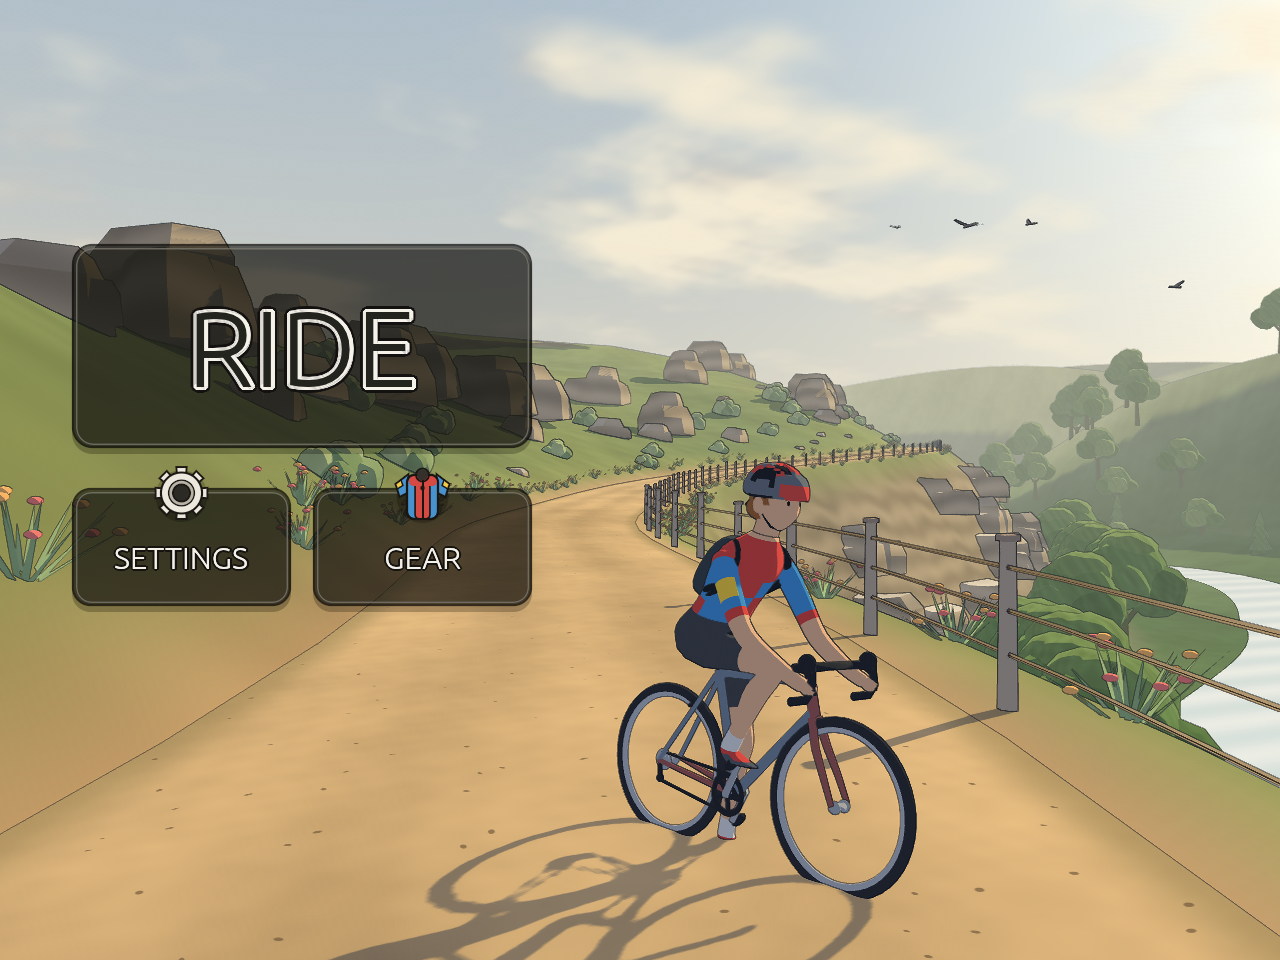
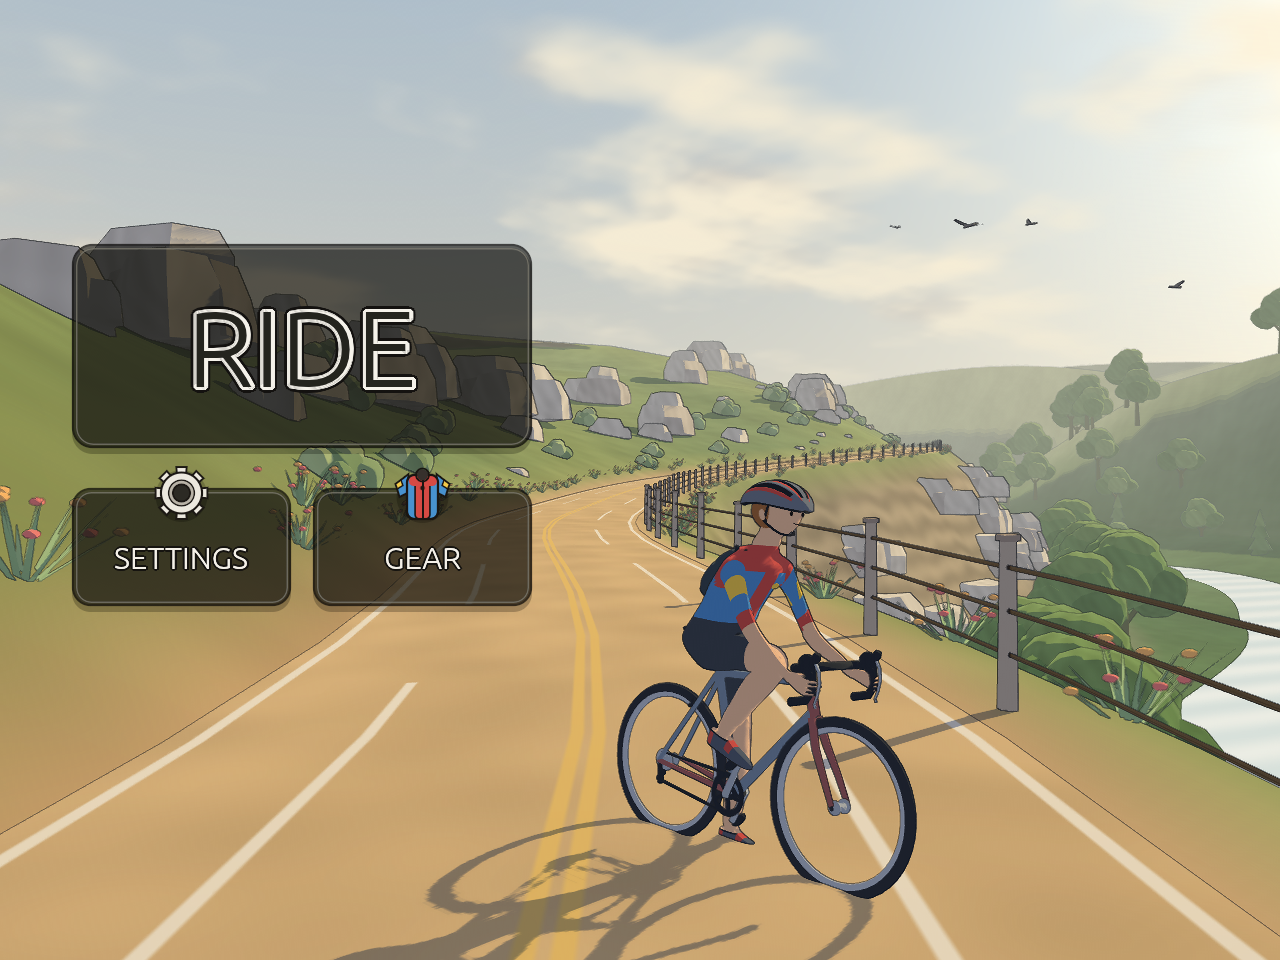
Rename app from Cadence to Cadencia
Rename the package, library (cadencia_lib) and binary (cadencia) targets, the
Android package (com.cadencia.cycling), NativeActivity lib name and labels, the
WASM canvas id and page title, the CADENCIA_LANG env var, GPU object labels,
egui area ids, window titles and UI branding strings, plus the APK artifact
name. Cycling-domain uses of the word cadence (RPM telemetry, physics
estimator, BLE parsers) are intentionally left unchanged.

Refresh the main menu, mountain and settings screenshots, which carry no
visible brand text, to confirm the renamed binary renders identically.

diff --git a/index.html b/index.html
@@ -3,7 +3,7 @@
 <head>
   <meta charset="utf-8" />
   <meta name="viewport" content="width=device-width, initial-scale=1.0, user-scalable=no" />
-  <title>Cadence — Stylized Indoor Cycling</title>
+  <title>Cadencia</title>
   <link data-trunk rel="rust" data-wasm-opt="z" />
   <style>
     html, body {
@@ -23,6 +23,6 @@
   </style>
 </head>
 <body>
-  <canvas id="cadence-canvas"></canvas>
+  <canvas id="cadencia-canvas"></canvas>
 </body>
 </html>

diff --git a/src/lib.rs b/src/lib.rs
@@ -27,7 +27,7 @@ use crate::world::riders::{
 use crate::world::terrain::{build_biome_world, StaticWorldGeometry};
 use crate::world::{BiomeId, RouteSpline};
 
-pub struct CadenceSim {
+pub struct CadenciaSim {
     pub screen: AppScreen,
     pub biome: BiomeId,
     pub spline: RouteSpline,
@@ -47,7 +47,7 @@ pub struct CadenceSim {
     pub time_s: f32,
 }
 
-impl CadenceSim {
+impl CadenciaSim {
     pub fn new(biome: BiomeId, camera_mode: CameraMode) -> Self {
         Self::new_with_screen(biome, AppScreen::InGame, camera_mode)
     }
@@ -244,7 +244,7 @@ struct WindowGpuState {
     renderer: LigneClaireRenderer,
     egui_ctx: egui::Context,
     egui_winit: egui_winit::State,
-    sim: CadenceSim,
+    sim: CadenciaSim,
     last_frame: Instant,
     save_screenshot_flag: bool,
 }
@@ -276,7 +276,7 @@ impl WindowGpuState {
             .expect("GPU adapter");
         let (device, queue) = adapter
             .request_device(&wgpu::DeviceDescriptor {
-                label: Some("cadence_device"),
+                label: Some("cadencia_device"),
                 required_limits: wgpu::Limits::default().using_resolution(adapter.limits()),
                 ..Default::default()
             })
@@ -294,7 +294,7 @@ impl WindowGpuState {
             Some(b) => (b, AppScreen::InGame, CameraMode::Chase),
             None => (BiomeId::random(), AppScreen::MainMenu, CameraMode::MainMenu),
         };
-        let sim = CadenceSim::new_with_screen(biome, screen, cam);
+        let sim = CadenciaSim::new_with_screen(biome, screen, cam);
         renderer.upload_world(&device, &sim.world_geo);
 
         let egui_ctx = egui::Context::default();
@@ -475,20 +475,20 @@ impl WindowGpuState {
     }
 }
 
-struct CadenceApp {
+struct CadenciaApp {
     #[allow(dead_code)]
     initial_level: Option<BiomeId>,
     state: Option<WindowGpuState>,
 }
 
-impl ApplicationHandler for CadenceApp {
+impl ApplicationHandler for CadenciaApp {
     fn resumed(&mut self, event_loop: &ActiveEventLoop) {
         if self.state.is_some() {
             return;
         }
         #[allow(unused_mut)]
         let mut attrs = Window::default_attributes()
-            .with_title("Cadence — Ligne Claire Indoor Cycling")
+            .with_title("Cadencia")
             .with_inner_size(winit::dpi::LogicalSize::new(1280.0, 960.0));
 
         #[cfg(target_arch = "wasm32")]
@@ -497,7 +497,7 @@ impl ApplicationHandler for CadenceApp {
             use winit::platform::web::WindowAttributesExtWebSys;
             let canvas = web_sys::window()
                 .and_then(|w| w.document())
-                .and_then(|d| d.get_element_by_id("cadence-canvas"))
+                .and_then(|d| d.get_element_by_id("cadencia-canvas"))
                 .and_then(|e| e.dyn_into::<web_sys::HtmlCanvasElement>().ok());
             if let Some(c) = canvas {
                 attrs = attrs.with_canvas(Some(c));
@@ -615,7 +615,7 @@ impl ApplicationHandler for CadenceApp {
 pub fn run_windowed(initial_level: Option<BiomeId>) {
     let event_loop = EventLoop::new().expect("event loop");
     event_loop.set_control_flow(ControlFlow::Poll);
-    let mut app = CadenceApp {
+    let mut app = CadenciaApp {
         initial_level,
         state: None,
     };
@@ -632,10 +632,10 @@ pub fn run_web() {
     let event_loop = EventLoop::new().expect("wasm event loop");
     #[allow(deprecated)]
     let window = {
-        let mut attrs = Window::default_attributes().with_title("Cadence");
+        let mut attrs = Window::default_attributes().with_title("Cadencia");
         if let Some(c) = web_sys::window()
             .and_then(|w| w.document())
-            .and_then(|d| d.get_element_by_id("cadence-canvas"))
+            .and_then(|d| d.get_element_by_id("cadencia-canvas"))
             .and_then(|e| e.dyn_into::<web_sys::HtmlCanvasElement>().ok())
         {
             attrs = attrs.with_canvas(Some(c));
@@ -697,7 +697,7 @@ pub fn android_main(app: android_activity::AndroidApp) {
         .build()
         .expect("android event loop");
     event_loop.set_control_flow(ControlFlow::Poll);
-    let mut app = CadenceApp {
+    let mut app = CadenciaApp {
         initial_level: None,
         state: None,
     };
@@ -734,7 +734,7 @@ pub fn render_headless_screenshot_screen(
     .map_err(|e| format!("adapter error: {e:?}"))?;
 
     let (device, queue) = pollster::block_on(adapter.request_device(&wgpu::DeviceDescriptor {
-        label: Some("cadence_headless_dev"),
+        label: Some("cadencia_headless_dev"),
         ..Default::default()
     }))
     .map_err(|e| format!("device error: {e:?}"))?;
@@ -742,7 +742,7 @@ pub fn render_headless_screenshot_screen(
     let format = wgpu::TextureFormat::Rgba8UnormSrgb;
     let assets = AssetBank::load_embedded();
     let mut renderer = LigneClaireRenderer::new(&device, format, width, height, &assets);
-    let mut sim = CadenceSim::new_with_screen(biome, screen, camera_mode);
+    let mut sim = CadenciaSim::new_with_screen(biome, screen, camera_mode);
     renderer.upload_world(&device, &sim.world_geo);
 
     let out_tex = device.create_texture(&wgpu::TextureDescriptor {

diff --git a/src/ui/mod.rs b/src/ui/mod.rs
@@ -50,7 +50,7 @@ impl Language {
     pub fn detect_os() -> Self {
         #[cfg(not(target_arch = "wasm32"))]
         {
-            for var in ["CADENCE_LANG", "LC_ALL", "LC_MESSAGES", "LANGUAGE", "LANG"] {
+            for var in ["CADENCIA_LANG", "LC_ALL", "LC_MESSAGES", "LANGUAGE", "LANG"] {
                 if let Ok(val) = std::env::var(var) {
                     if let Some(lang) = Self::from_locale_tag(&val) {
                         return lang;
@@ -1065,8 +1065,8 @@ pub fn draw_hud(
         let lang = hud_state.language;
         egui::Window::new(tr(
             lang,
-            "Cadence Control & Trainer Hub",
-            "Centro de Control y Rodillo Cadence",
+            "Cadencia Control & Trainer Hub",
+            "Centro de Control y Rodillo Cadencia",
         ))
             .anchor(Align2::CENTER_CENTER, Vec2::ZERO)
             .collapsible(false)
@@ -1173,7 +1173,7 @@ pub fn draw_hud(
                 );
                 ui.add(
                     egui::Slider::new(&mut sim.target_cadence_rpm, 0.0..=130.0)
-                        .text(tr(lang, "Cadence (RPM)", "Cadencia (RPM)")),
+                        .text(tr(lang, "Cadencia (RPM)", "Cadencia (RPM)")),
                 );
                 ui.add(
                     egui::Slider::new(&mut sim.target_hr_bpm, 75.0..=195.0)
@@ -1485,7 +1485,7 @@ fn draw_main_menu(ctx: &egui::Context, lang: Language) -> HudActions {
     let scale_y = (h / 960.0).clamp(0.65, 1.6);
     let scale = scale_x.min(scale_y);
 
-    egui::Area::new(egui::Id::unique("cadence_main_menu_cluster"))
+    egui::Area::new(egui::Id::unique("cadencia_main_menu_cluster"))
         .fade_in(false)
         .fixed_pos(Pos2::ZERO)
         .show(ctx, |ui| {
@@ -1710,7 +1710,7 @@ fn draw_world_select(ctx: &egui::Context, lang: Language) -> HudActions {
     let scale_y = (h / 960.0).clamp(0.65, 1.6);
     let scale = scale_x.min(scale_y);
 
-    egui::Area::new(egui::Id::unique("cadence_world_select"))
+    egui::Area::new(egui::Id::unique("cadencia_world_select"))
         .fade_in(false)
         .fixed_pos(Pos2::ZERO)
         .show(ctx, |ui| {
@@ -1909,7 +1909,7 @@ fn draw_settings_screen(
     let scale = scale_x.min(scale_y);
     let lang = hud_state.language;
 
-    egui::Area::new(egui::Id::unique("cadence_settings_backdrop"))
+    egui::Area::new(egui::Id::unique("cadencia_settings_backdrop"))
         .fade_in(false)
         .fixed_pos(Pos2::ZERO)
         .show(ctx, |ui| {
@@ -2085,7 +2085,7 @@ fn draw_settings_screen(
                 );
                 cols[1].add(
                     egui::Slider::new(&mut sim.target_cadence_rpm, 0.0..=130.0)
-                        .text(tr(lang, "Sim Cadence (RPM)", "Cadencia Sim (RPM)")),
+                        .text(tr(lang, "Sim Cadencia (RPM)", "Cadencia Sim (RPM)")),
                 );
                 cols[1].add(
                     egui::Slider::new(&mut sim.target_hr_bpm, 75.0..=195.0)
@@ -2148,7 +2148,7 @@ fn draw_avatar_editor_screen(ctx: &egui::Context, lang: Language) -> HudActions 
 
     // Left blank as requested ("Gear opens the avatar editor screen. For now leave the avatar editor screen blank.")
     // with only a discrete Back button in the top-left corner so the player can return to the Main Menu.
-    egui::Area::new(egui::Id::unique("cadence_avatar_editor_blank"))
+    egui::Area::new(egui::Id::unique("cadencia_avatar_editor_blank"))
         .fade_in(false)
         .fixed_pos(Pos2::ZERO)
         .show(ctx, |ui| {

diff --git a/src/main.rs b/src/main.rs
@@ -1,9 +1,9 @@
 #[cfg(not(target_arch = "wasm32"))]
-use cadence_lib::renderer::CameraMode;
+use cadencia_lib::renderer::CameraMode;
 #[cfg(not(target_arch = "wasm32"))]
-use cadence_lib::ui::AppScreen;
+use cadencia_lib::ui::AppScreen;
 #[cfg(not(target_arch = "wasm32"))]
-use cadence_lib::world::BiomeId;
+use cadencia_lib::world::BiomeId;
 
 fn main() {
     #[cfg(not(target_arch = "wasm32"))]
@@ -91,14 +91,14 @@ fn main() {
             });
             let biome = explicit_biome.unwrap_or_else(BiomeId::random);
             if let Err(err) =
-                cadence_lib::render_headless_screenshot_screen(&out, biome, screen, width, height, camera)
+                cadencia_lib::render_headless_screenshot_screen(&out, biome, screen, width, height, camera)
             {
                 eprintln!("Screenshot failed: {err}");
                 std::process::exit(1);
             }
             println!("Saved screenshot to {out}");
         } else {
-            cadence_lib::run_windowed(direct_level);
+            cadencia_lib::run_windowed(direct_level);
         }
     }
 }

diff --git a/src/renderer/mod.rs b/src/renderer/mod.rs
@@ -2483,7 +2483,7 @@ impl LigneClaireRenderer {
         }
 
         let mut encoder = device.create_command_encoder(&wgpu::CommandEncoderDescriptor {
-            label: Some("cadence_encoder"),
+            label: Some("cadencia_encoder"),
         });
 
         // -----------------------------------------------------------------

diff --git a/AGENTS.md b/AGENTS.md
@@ -1,6 +1,6 @@
-# AGENTS.md — Cadence Architecture & Engineering Rules
+# AGENTS.md — Cadencia Architecture & Engineering Rules
 
-This document defines the architectural invariants, rendering pipeline rules, aesthetic constraints, and verification workflow for **Cadence**, a cross-platform *Ligne Claire* stylized indoor cycling training application written in **Rust** (`wgpu 30.0` + WGSL, `winit 0.30`, `egui 0.37`, `btleplug 0.13`) targeting **Windows, Linux, Android, and Web (WASM)**.
+This document defines the architectural invariants, rendering pipeline rules, aesthetic constraints, and verification workflow for **Cadencia**, a cross-platform *Ligne Claire* stylized indoor cycling training application written in **Rust** (`wgpu 30.0` + WGSL, `winit 0.30`, `egui 0.37`, `btleplug 0.13`) targeting **Windows, Linux, Android, and Web (WASM)**.
 
 All AI coding agents and contributors must follow these rules whenever modifying or extending the codebase.
 
@@ -14,9 +14,9 @@ All AI coding agents and contributors must follow these rules whenever modifying
      - `cargo build --offline`
      - `cargo run --offline -- ...`
      - `cargo check --offline --target wasm32-unknown-unknown --no-default-features`
-     - `powershell -ExecutionPolicy Bypass -File .\build_android_apk.ps1` (builds `aarch64-linux-android` release `libcadence_lib.so` and packages/signs `cadence.apk`)
+     - `powershell -ExecutionPolicy Bypass -File .\build_android_apk.ps1` (builds `aarch64-linux-android` release `libcadencia_lib.so` and packages/signs `cadencia.apk`)
 2. **Keep Library and Binary Target Names Distinct (`Cargo.toml`):**
-   - In `Cargo.toml`, `[lib]` must remain `name = "cadence_lib"` (`crate-type = ["cdylib", "rlib"]`) and `[[bin]]` must remain `name = "cadence"`. Never give `[lib]` and `[[bin]]` the same name, as Windows MSVC builds will emit `cadence.pdb` output filename collision warnings.
+   - In `Cargo.toml`, `[lib]` must remain `name = "cadencia_lib"` (`crate-type = ["cdylib", "rlib"]`) and `[[bin]]` must remain `name = "cadencia"`. Never give `[lib]` and `[[bin]]` the same name, as Windows MSVC builds will emit `cadencia.pdb` output filename collision warnings.
 3. **ALWAYS Use the Blender MCP for 3D Modeling (NEVER Procedural Rust Meshes for Props/Models):**
    - All 3D models (vegetation, trees, palms, bushes, rocks, animals, buildings, vehicles, avatars, props) **MUST** be created and exported as `.glb` files into `assets/models/` using the **Blender MCP** (`execute_blender_code` / `blender` MCP tools) and loaded via `load_glb` in `src/assets.rs`.
    - **NEVER** write procedural mesh-building code in Rust to generate 3D prop, vegetation, rock, or animal models.
@@ -51,7 +51,7 @@ All AI coding agents and contributors must follow these rules whenever modifying
 | Path | Responsibility |
 | :--- | :--- |
 | `src/main.rs` | Desktop CLI entry point supporting `--level <cerro\|rambla\|campo>`, `--screenshot <path>`, `--biome <name>`, `--screen <main_menu\|world_select\|settings\|gear\|ingame>`, `--camera <mode>`, `--width <px>`, `--height <px>`. |
-| `src/lib.rs` | Application state loop (`CadenceSim`, `WindowGpuState`), desktop `run_windowed`, WASM `run_web`, Android `android_main`, and 8-frame TAA-converged `render_headless_screenshot_screen`. |
+| `src/lib.rs` | Application state loop (`CadenciaSim`, `WindowGpuState`), desktop `run_windowed`, WASM `run_web`, Android `android_main`, and 8-frame TAA-converged `render_headless_screenshot_screen`. |
 | `src/assets.rs` | Compressed 24-byte `SceneVertex` format, `SceneVertex::new_packed_prop` per-vertex metadata packing, and `AssetBank` (procedural + embedded glTF models). |
 | `src/world/mod.rs` | `BiomeId` (`MountainClimb`, `CoastalPromenade`, `RollingRuralGravel`), closed-loop 3D Catmull-Rom `RouteSpline`, and world unit tests. |
 | `src/world/terrain.rs` | 3D `WorldOctree` (`OCTREE_MAX_DEPTH = 4`, `MAX_OCTREE_SECTORS = 126`), `WorldSector` leaf chunks, Gribb-Hartmann 6-plane `Frustum`, procedural road/terrain/wire/water mesh generation, and biome prop placement. |
